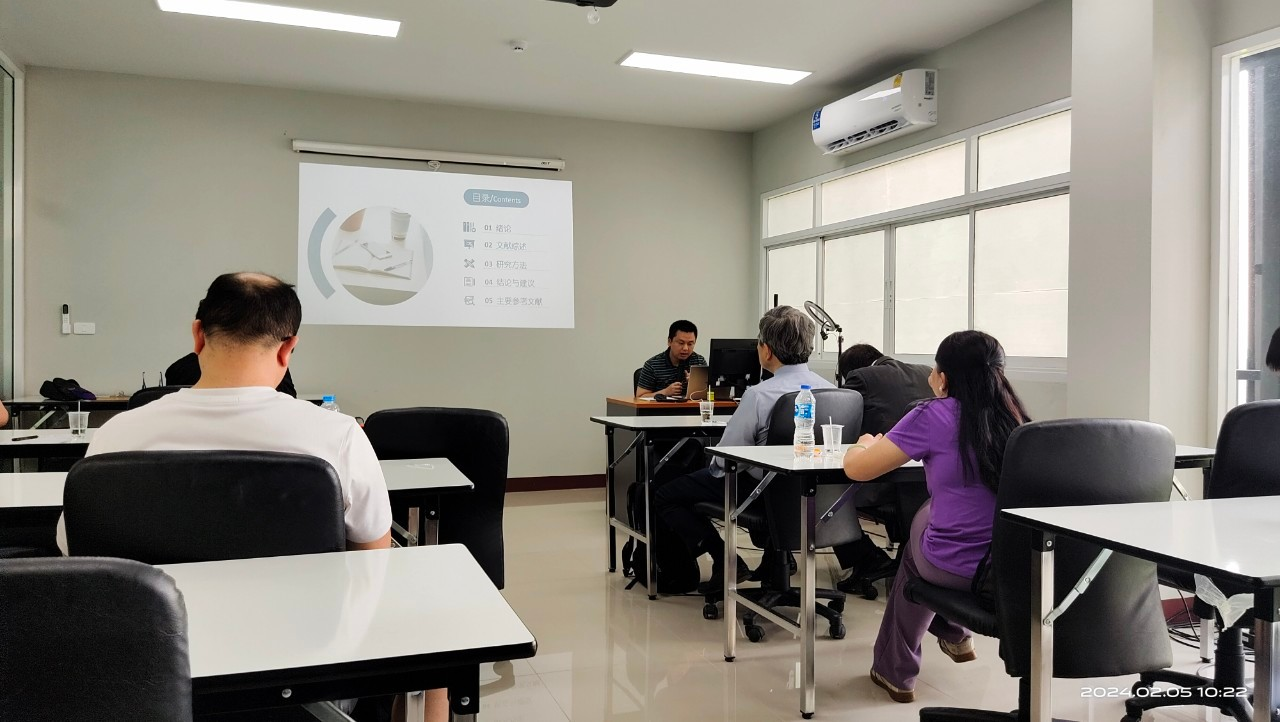
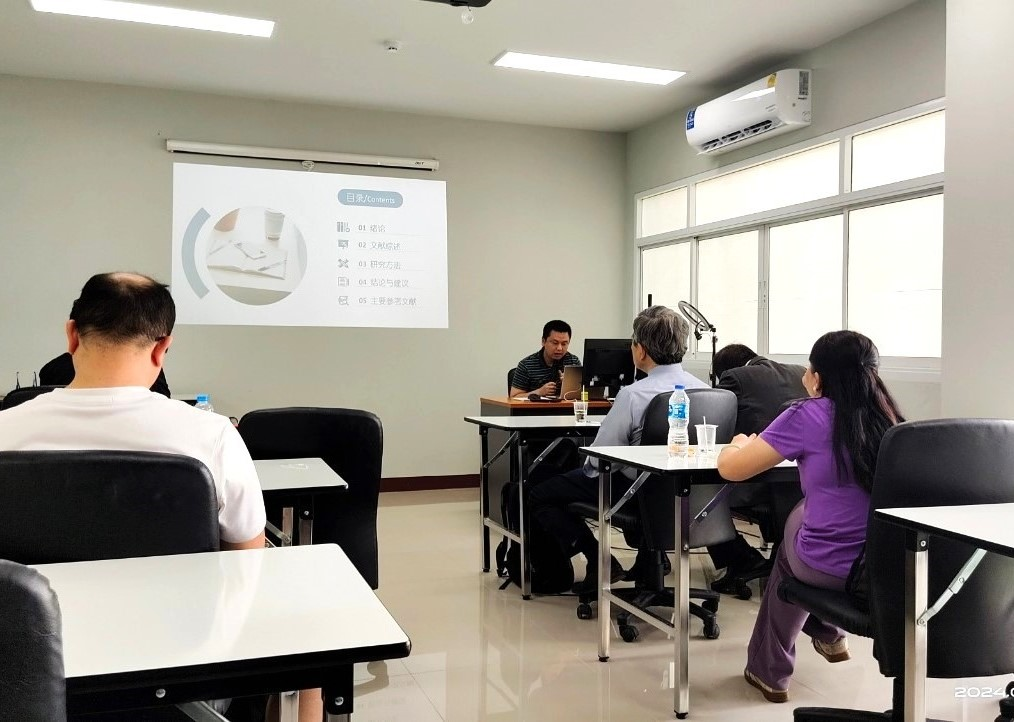
course added

diff --git a/src/app/course/page.tsx b/src/app/course/page.tsx
@@ -1,0 +1,177 @@
+import Image from "next/image";
+import presentation from "@public/presentation.jpg";
+import inClass from "@public/in-class.png";
+
+export default function Page() {
+  return (
+    <div className="bg-white px-6 py-32 lg:px-8">
+      <div className="mx-auto max-w-5xl text-base leading-7 text-gray-700  ">
+        <h1 className="mt-2 text-3xl font-bold text-center tracking-tight text-gray-900 sm:text-4xl">
+          学术单位
+        </h1>
+        <div className="mt-12 border-t border-gray-100">
+          <dl className="divide-y divide-gray-100">
+            <div className="bg-[#d8ebeb] px-4 py-6 sm:grid sm:grid-cols-5 sm:gap-4 sm:px-3">
+              <dt className="text-lg leading-6 text-gray-900 sm:col-span-3">
+                <p className="font-semibold ">
+                  太平洋管理科学学院 哲学博士 教育管理方向
+                </p>
+                <p>Ph.D.Doctor of Philosophy in Educational Administration</p>
+              </dt>
+              <dd className="mt-1 text-lg leading-6 text-gray-700 sm:col-span-2 sm:mt-0">
+                <h2>教師(博导)</h2>
+                <li>張鳴姍教授(教育人力資源)</li>
+                <li>蔡佩樺教授(英語教育)</li>
+                <li>游麗蓉教授(教育行政)</li>
+              </dd>
+            </div>
+            <div className="bg-white px-4 py-6 sm:grid sm:grid-cols-5 sm:gap-4 sm:px-3">
+              <dt className="text-lg leading-6 text-gray-900 sm:col-span-3">
+                <p className="font-semibold ">
+                  太平洋管理科学学院 藝術博士 音乐方向
+                </p>
+                <p>Doctor of Art in Musicology</p>
+              </dt>
+              <dd className="mt-1 text-lg leading-6 text-gray-700 sm:col-span-2 sm:mt-0">
+                <h2>教師(博导)</h2>
+                <li>吳昭蓉教授(民族音樂學)</li>
+                <li>林能杰教授(現代音樂)</li>
+              </dd>
+            </div>
+            <div className="bg-[#d8ebeb] px-4 py-6 sm:grid sm:grid-cols-5 sm:gap-4 sm:px-3">
+              <dt className="text-lg leading-6 text-gray-900 sm:col-span-3">
+                <p className="font-semibold ">
+                  太平洋管理科学学院 藝術博士 舞蹈方向
+                </p>
+                <p>Doctor of Art in Dancelogy</p>
+              </dt>
+              <dd className="mt-1 text-lg leading-6 text-gray-700 sm:col-span-2 sm:mt-0"></dd>
+            </div>
+            <div className="bg-white px-4 py-6 sm:grid sm:grid-cols-5 sm:gap-4 sm:px-3">
+              <dt className="text-lg leading-6 text-gray-900 sm:col-span-3">
+                <p className="font-semibold ">
+                  太平洋管理科学学院 藝術博士 美术 方向
+                </p>
+                <p>Doctor of Art in Fine Art</p>
+              </dt>
+              <dd className="mt-1 text-lg leading-6 text-gray-700 sm:col-span-2 sm:mt-0">
+                <h2>教師(博导)</h2>
+                <li>陈维教授(美学理论)</li>
+              </dd>
+            </div>
+            <div className="bg-[#d8ebeb] px-4 py-6 sm:grid sm:grid-cols-5 sm:gap-4 sm:px-3">
+              <dt className="text-lg leading-6 text-gray-900 sm:col-span-3">
+                <p className="font-semibold ">
+                  太平洋管理科学学院 哲学博士 信息技术管理方向
+                </p>
+                <p>
+                  Ph.D. Doctor of Philosophy in Information Technology
+                  Management
+                </p>
+              </dt>
+              <dd className="mt-1 text-lg leading-6 text-gray-700 sm:col-span-2 sm:mt-0">
+                <h2>教師(博导)</h2>
+                <li>李瑞元教授(AI计算机工程) </li>
+                <li>黄东城教授(机器人与自动控制) </li>
+                <li>陶翼煌教授(卫星遥测) </li>
+              </dd>
+            </div>
+            <div className="bg-white px-4 py-6 sm:grid sm:grid-cols-5 sm:gap-4 sm:px-3">
+              <dt className="text-lg leading-6 text-gray-900 sm:col-span-3">
+                <p className="font-semibold ">
+                  太平洋管理科学学院 哲学博士 组织管理与发展 方向
+                </p>
+                <p>
+                  Ph.D. Doctor of Philosophy in Organization Management and
+                  Development
+                </p>
+              </dt>
+              <dd className="mt-1 text-lg leading-6 text-gray-700 sm:col-span-2 sm:mt-0">
+                <h2>教師(博导)</h2>
+                <li>陈秋声教授(战略管理)</li>
+                <li>陈树中教授(知识管理)</li>
+                <li>蔡政谚教授(创新管理)</li>
+                <li>秦学教授(旅游管理)</li>
+              </dd>
+            </div>
+            <div className="bg-[#d8ebeb] px-4 py-6 sm:grid sm:grid-cols-5 sm:gap-4 sm:px-3">
+              <dt className="text-lg leading-6 text-gray-900 sm:col-span-3">
+                <p className="font-semibold ">
+                  太平洋管理科学学院 教育管理硕士
+                </p>
+                <p>M.Ed. Master of Education (Educational Administration)</p>
+              </dt>
+              <dd className="mt-1 text-lg leading-6 text-gray-700 sm:col-span-2 sm:mt-0">
+                <h2>教師(博导)</h2>
+                <li>盖思妮教授(教育行政) </li>
+                <li>韦娜妲教授(音乐教育、全人教育) </li>
+                <li>王茵琳教授(科学教育) </li>
+              </dd>
+            </div>
+            <div className="bg-white px-4 py-6 sm:grid sm:grid-cols-5 sm:gap-4 sm:px-3">
+              <dt className="text-lg leading-6 text-gray-900 sm:col-span-3">
+                <p className="font-semibold ">
+                  太洋管理科学学院 藝術硕士（音乐、舞蹈、美术）方向
+                </p>
+                <p>M.Art. Master of Art in Musicology、Dancelogy、Fine Arts</p>
+              </dt>
+              <dd className="mt-1 text-lg leading-6 text-gray-700 sm:col-span-2 sm:mt-0">
+                <h2>教師(博导)</h2>
+                <li>孟昭栋教授(文化创新)</li>
+                <li>陈建安教授(环境美学)</li>
+              </dd>
+            </div>
+            <div className="bg-[#d8ebeb] px-4 py-6 sm:grid sm:grid-cols-5 sm:gap-4 sm:px-3">
+              <dt className="text-lg leading-6 text-gray-900 sm:col-span-3">
+                <p className="font-semibold ">
+                  太平洋管理科学学院 工商管理硕士
+                </p>
+                <p>MBA Master of Business Administration </p>
+              </dt>
+              <dd className="mt-1 text-lg leading-6 text-gray-700 sm:col-span-2 sm:mt-0">
+                <h2>教師(博导)</h2>
+                <li>陳家妤教授(金融管理) </li>
+                <li>吴丽皙教授(营销管理) </li>
+                <li>簡綺徽教授(經濟管理) </li>
+                <li>林鉌翔教授(创业管理) </li>
+              </dd>
+            </div>
+            <div className="bg-white px-4 py-6 sm:grid sm:grid-cols-5 sm:gap-4 sm:px-3">
+              <dt className="text-lg leading-6 text-gray-900 sm:col-span-3">
+                <p className="font-semibold ">
+                  太平洋管理科学学院 工商管理硕士 信息技术管理方向
+                </p>
+                <p>
+                  MBA Master of Buiness Administration in Information Technology
+                  Management
+                </p>
+              </dt>
+              <dd className="mt-1 text-lg leading-6 text-gray-700 sm:col-span-2 sm:mt-0">
+                <h2>教師(博导)</h2>
+                <li>陈世铭教授(信息教育)</li>
+                <li>翁瑞峰教授(大数据分析)</li>
+                <li>司威梦教授(数据挖掘)</li>
+              </dd>
+            </div>
+          </dl>
+        </div>
+        <div className="grid lg:grid-cols-2 gap-2">
+          <div>
+            <Image
+              className="h-auto max-w-full rounded-lg"
+              src={inClass}
+              alt=""
+            />
+          </div>
+          <div>
+            <Image
+              className="h-auto max-w-full rounded-lg"
+              src={presentation}
+              alt=""
+            />
+          </div>
+        </div>
+      </div>
+    </div>
+  );
+}

diff --git a/src/app/team/page.tsx b/src/app/team/page.tsx
@@ -42,14 +42,17 @@ export default function Page() {
     <>
       <div className="bg-white py-24 sm:py-32">
         <div className="mx-auto max-w-7xl px-6 lg:px-8">
-          <div className="mx-auto max-w-2xl sm:text-center">
+          <div className="mx-auto max-w-2xl sm:text-center ">
             <h2 className="text-3xl font-bold tracking-tight text-gray-900 sm:text-4xl">
               管理部门
             </h2>
-            <p className="mt-6 text-lg leading-8 text-gray-600">
-              一群在泰国高等教育领域拥有多年经验的专业人士
-            </p>
           </div>
+          <p className="mt-6 text-lg leading-8 text-gray-600 rounded-2xl bg-[#e5f2f2] gap-x-16 gap-y-8 p-8">
+            太平洋管理科学学院国际部由繁荣教育门主办，繁荣教育门象征着通过这个平台引领你走向成功之路，由泰籍华裔学者陈秋声博士创立，目的是促进泰中两国高等教育的交流与合作，为中国培养高等教育人才。
+            繁荣教育门的教育团队包括：核心管理人员、学校行政人员、及学术咨询委员。核心管理人员是繁荣教育门的创始人，主要是由陈秋声教授领导的一群热心教育的人士。学校行政人员负责项目的具体执行，包括国际部执行长、院长、学务长及其他常任人员等。学术咨询委员由繁荣教育门邀请的具有国际学术声望的学者组成，他们多数是学术期刊IEEE、SSCI、SCI、EI的编辑或审查人，为学院提供教学与研究的相关信息，作为办学的参考。
+            繁荣教育门的成员拥有丰富的泰国本土经验，因此能提供高质量的教学给来此学习的学生们。过去，繁荣教育门成员曾协助朱拉隆功大学、玛希隆大学、国王科技大学、清迈大学及宋卡王子大学举办国际学术研讨会，这些会议均被学术资料库EI与SCOPUS收录。繁荣教育门还帮助学校成立学术期刊，并在泰国高等教育科研的核心期刊资料库TCI中被收录。此外，还协助泰国农业大学设立研究中心，以及三所私立大学开展中国学生的国际学院项目。
+            在陈秋声博士的领导下，繁荣教育门将他们多年累积的经验贡献给太平洋管理科学学院国际部，相信能为本学院的中国留学生提供最优质的教育和学习服务。
+          </p>
           <ul
             role="list"
             className="mx-auto mt-20 grid max-w-2xl grid-cols-1 gap-x-6 gap-y-20 sm:grid-cols-1 lg:max-w-4xl lg:gap-x-8 xl:max-w-none"

diff --git a/src/app/page.tsx b/src/app/page.tsx
@@ -65,22 +65,21 @@ export default function Page() {
                     Pacific Institute of Management Science
                   </h2>
                   <p className="mt-6 text-lg leading-8 text-gray-600 sm:max-w-md lg:max-w-none">
-                    in collaboration with Prosper Edugate Co., Ltd. offers you
-                    the most wholesome learning exprerience for higher education
-                    in Thailand
+                    太平洋管理科学学院与繁荣教育门有限公司合作(Prosper Edugate
+                    Co., Ltd.)，为您提供在泰国的高等教育最全面的学习体验。
                   </p>
                   <div className="mt-10 flex items-center gap-x-6">
                     <a
                       href="#"
                       className="rounded-md bg-pims-green px-3.5 py-2.5 text-sm font-semibold text-white shadow-sm hover:bg-pims-green-light focus-visible:outline focus-visible:outline-2 focus-visible:outline-offset-2 focus-visible:outline-indigo-600"
                     >
-                      Apply now
+                      预约报名
                     </a>
                     <a
                       href="#"
                       className="text-sm font-semibold leading-6 text-gray-900"
                     >
-                      More about P.I.M.S. <span aria-hidden="true">→</span>
+                      认识太平洋管理科学学院 <span aria-hidden="true">→</span>
                     </a>
                   </div>
                 </div>

diff --git a/src/app/components/Navbar.tsx b/src/app/components/Navbar.tsx
@@ -1,6 +1,6 @@
 "use client";
 
-import { useState } from "react";
+import { useEffect, useState } from "react";
 import { Dialog } from "@headlessui/react";
 import { Bars3Icon, XMarkIcon } from "@heroicons/react/24/outline";
 import Image from "next/image";
@@ -9,7 +9,7 @@ import logo from "@public/pims-logo-full.png";
 const navigation = [
   { name: "认识太平洋学院", href: "/pims" },
   { name: "管理部门", href: "/team" },
-  { name: "学术单位", href: "#" },
+  { name: "学术单位", href: "/course" },
   { name: "我想读太平洋学院", href: "#" },
   { name: "校园采风", href: "#" },
   { name: "学历认证", href: "#" },
@@ -17,6 +17,7 @@ const navigation = [
 
 export default function Navbar() {
   const [mobileMenuOpen, setMobileMenuOpen] = useState(false);
+
   return (
     <div className="absolute inset-x-0 top-0 z-50">
       <div
